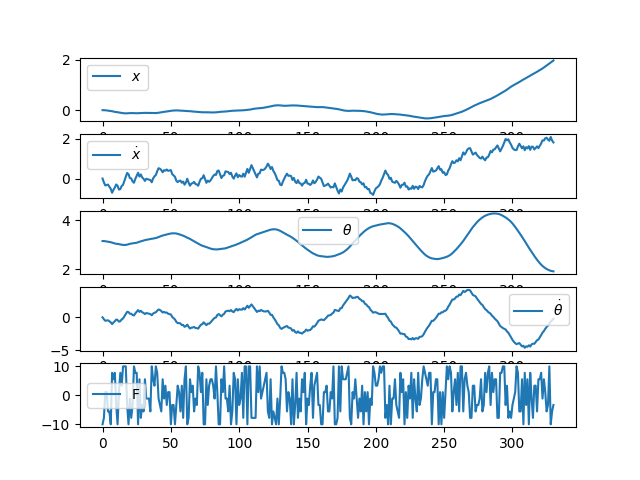
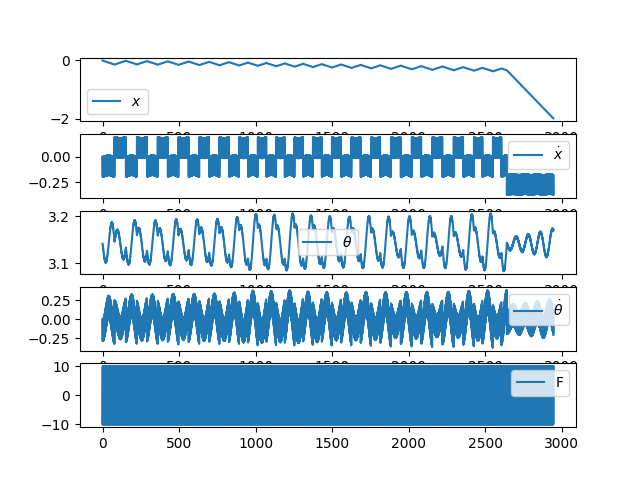
updated

diff --git a/experiments/reinforce_cart_pole.py b/experiments/reinforce_cart_pole.py
@@ -4,9 +4,9 @@ from agents.mlp import MLP
 from utils.reinforce_training import Training
 
 # Genral hyper-parameters
-n_episodes = 10000
+n_episodes = 10001
 gamma      = 0.9 # Discount factor
-action_dim = 10
+action_dim = 2
 seed       = 0
 
 # Policy hyper-parameters
@@ -31,6 +31,8 @@ for episode in range(n_episodes):
     actions = []
     rewards = []
 
+    step = 0
+
     while True:
         # Here the cart pole has a discrete output, therefore, we are choosing the maximum as the action
         # For each bin, we have corresponding probabilities
@@ -46,6 +48,11 @@ for episode in range(n_episodes):
         states.append(state.squeeze(-1))
         actions.append(action.unsqueeze(-1))
         rewards.append(reward)
+        
+        step += 1
+
+        if step > 1000:
+            break
     
     g = 0
     i = len(rewards) - 1
@@ -64,8 +71,7 @@ for episode in range(n_episodes):
 
         while True:
             logits = agent.predict(state.squeeze(-1)).detach()
-            distribution = torch.distributions.Categorical(logits=logits)
-            action = distribution.sample()
+            action = logits.argmax()
             next_state, reward, terminate = env.step(state, agent.actions[action])
             states_for_plotting.append(state.detach().numpy())
             actions_for_plotting.append(agent.actions[action])
@@ -76,4 +82,4 @@ for episode in range(n_episodes):
             
             state = next_state
 
-        env.plot_states(states_for_plotting, actions_for_plotting)
+        env.plot_states(states_for_plotting, actions_for_plotting, name_str=episode//1000)

diff --git a/experiments/reinforce_w_baseline_cart_pole.py b/experiments/reinforce_w_baseline_cart_pole.py
@@ -7,7 +7,7 @@ from utils.value_training import ValueTraining
 
 method = 'REINFORCE_w_baseline'
 # Genral hyper-parameters
-n_episodes = 1000
+n_episodes = 4001
 gamma      = 0.9 # Discount factor
 action_dim = 10
 seed       = 0
@@ -59,8 +59,9 @@ for episode in range(n_episodes):
         rewards[i] = gamma * g + reward
         i -= 1
 
-    training.train(torch.stack(states), torch.stack(actions), torch.tensor(rewards))
     v_training.train(torch.stack(states), torch.tensor(rewards))
+
+    training.train(torch.stack(states), torch.stack(actions), torch.tensor(rewards))
 
     # plotting the result every 1000 episodes
     if episode % 1000 == 0:

diff --git a/envs/cart_pole.py b/envs/cart_pole.py
@@ -79,7 +79,7 @@ class CartPole(Environment):
         
         return next_state, reward, self.terminate
     
-    def plot_states(self, states, actions):
+    def plot_states(self, states, actions, name_str=''):
         fig, ax = plt.subplots()
         ax.set_xlim(-2, 2)
         ax.set_ylim(-2, 2)
@@ -104,7 +104,7 @@ class CartPole(Environment):
             blit=True
         )
 
-        ani.save(f'{self.save_dir}/animation/cartPole.gif', writer="pillow", fps=int(1 / self.dt))
+        ani.save(f'{self.save_dir}/animation/cartPole{name_str}.gif', writer="pillow", fps=int(1 / self.dt))
         plt.close(fig)
         plt.close()
 

diff --git a/utils/reinforce_training.py b/utils/reinforce_training.py
@@ -1,5 +1,4 @@
 import torch
-import torch.nn as nn
 import torch.optim as optim
 
 class Training:
@@ -31,5 +30,4 @@ class Training:
 
         loss.backward()
         optimizer.step()
-
    
